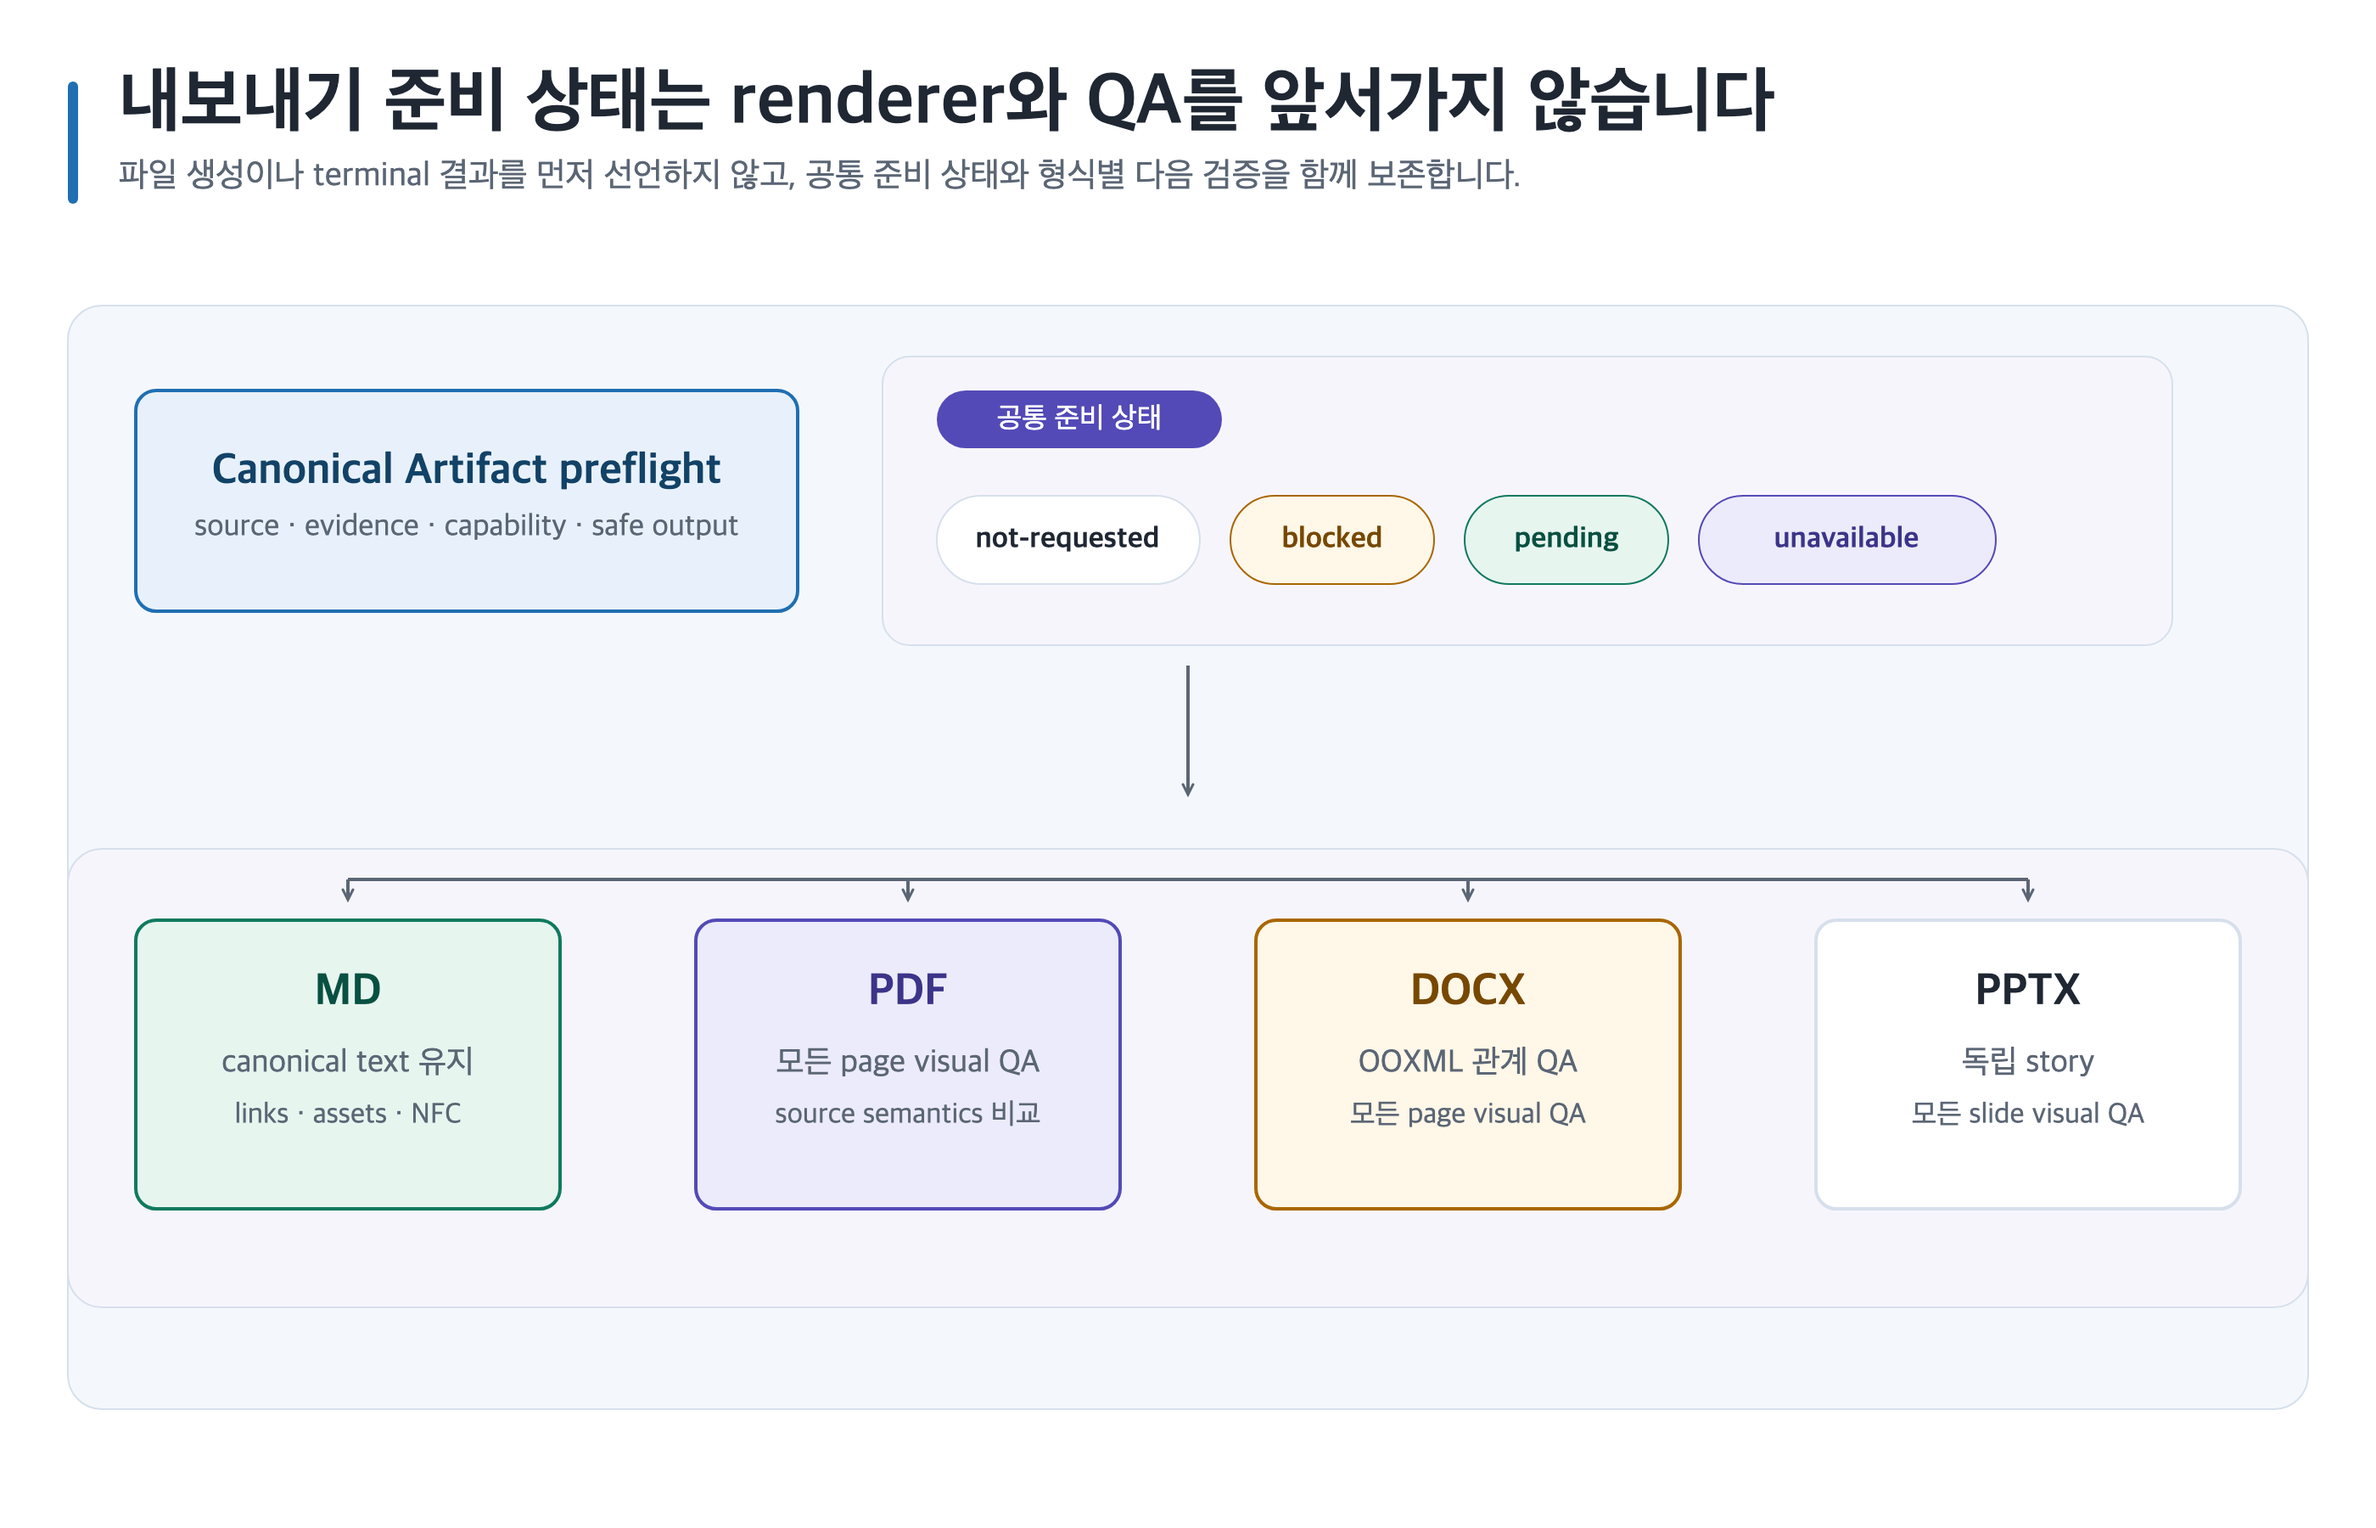
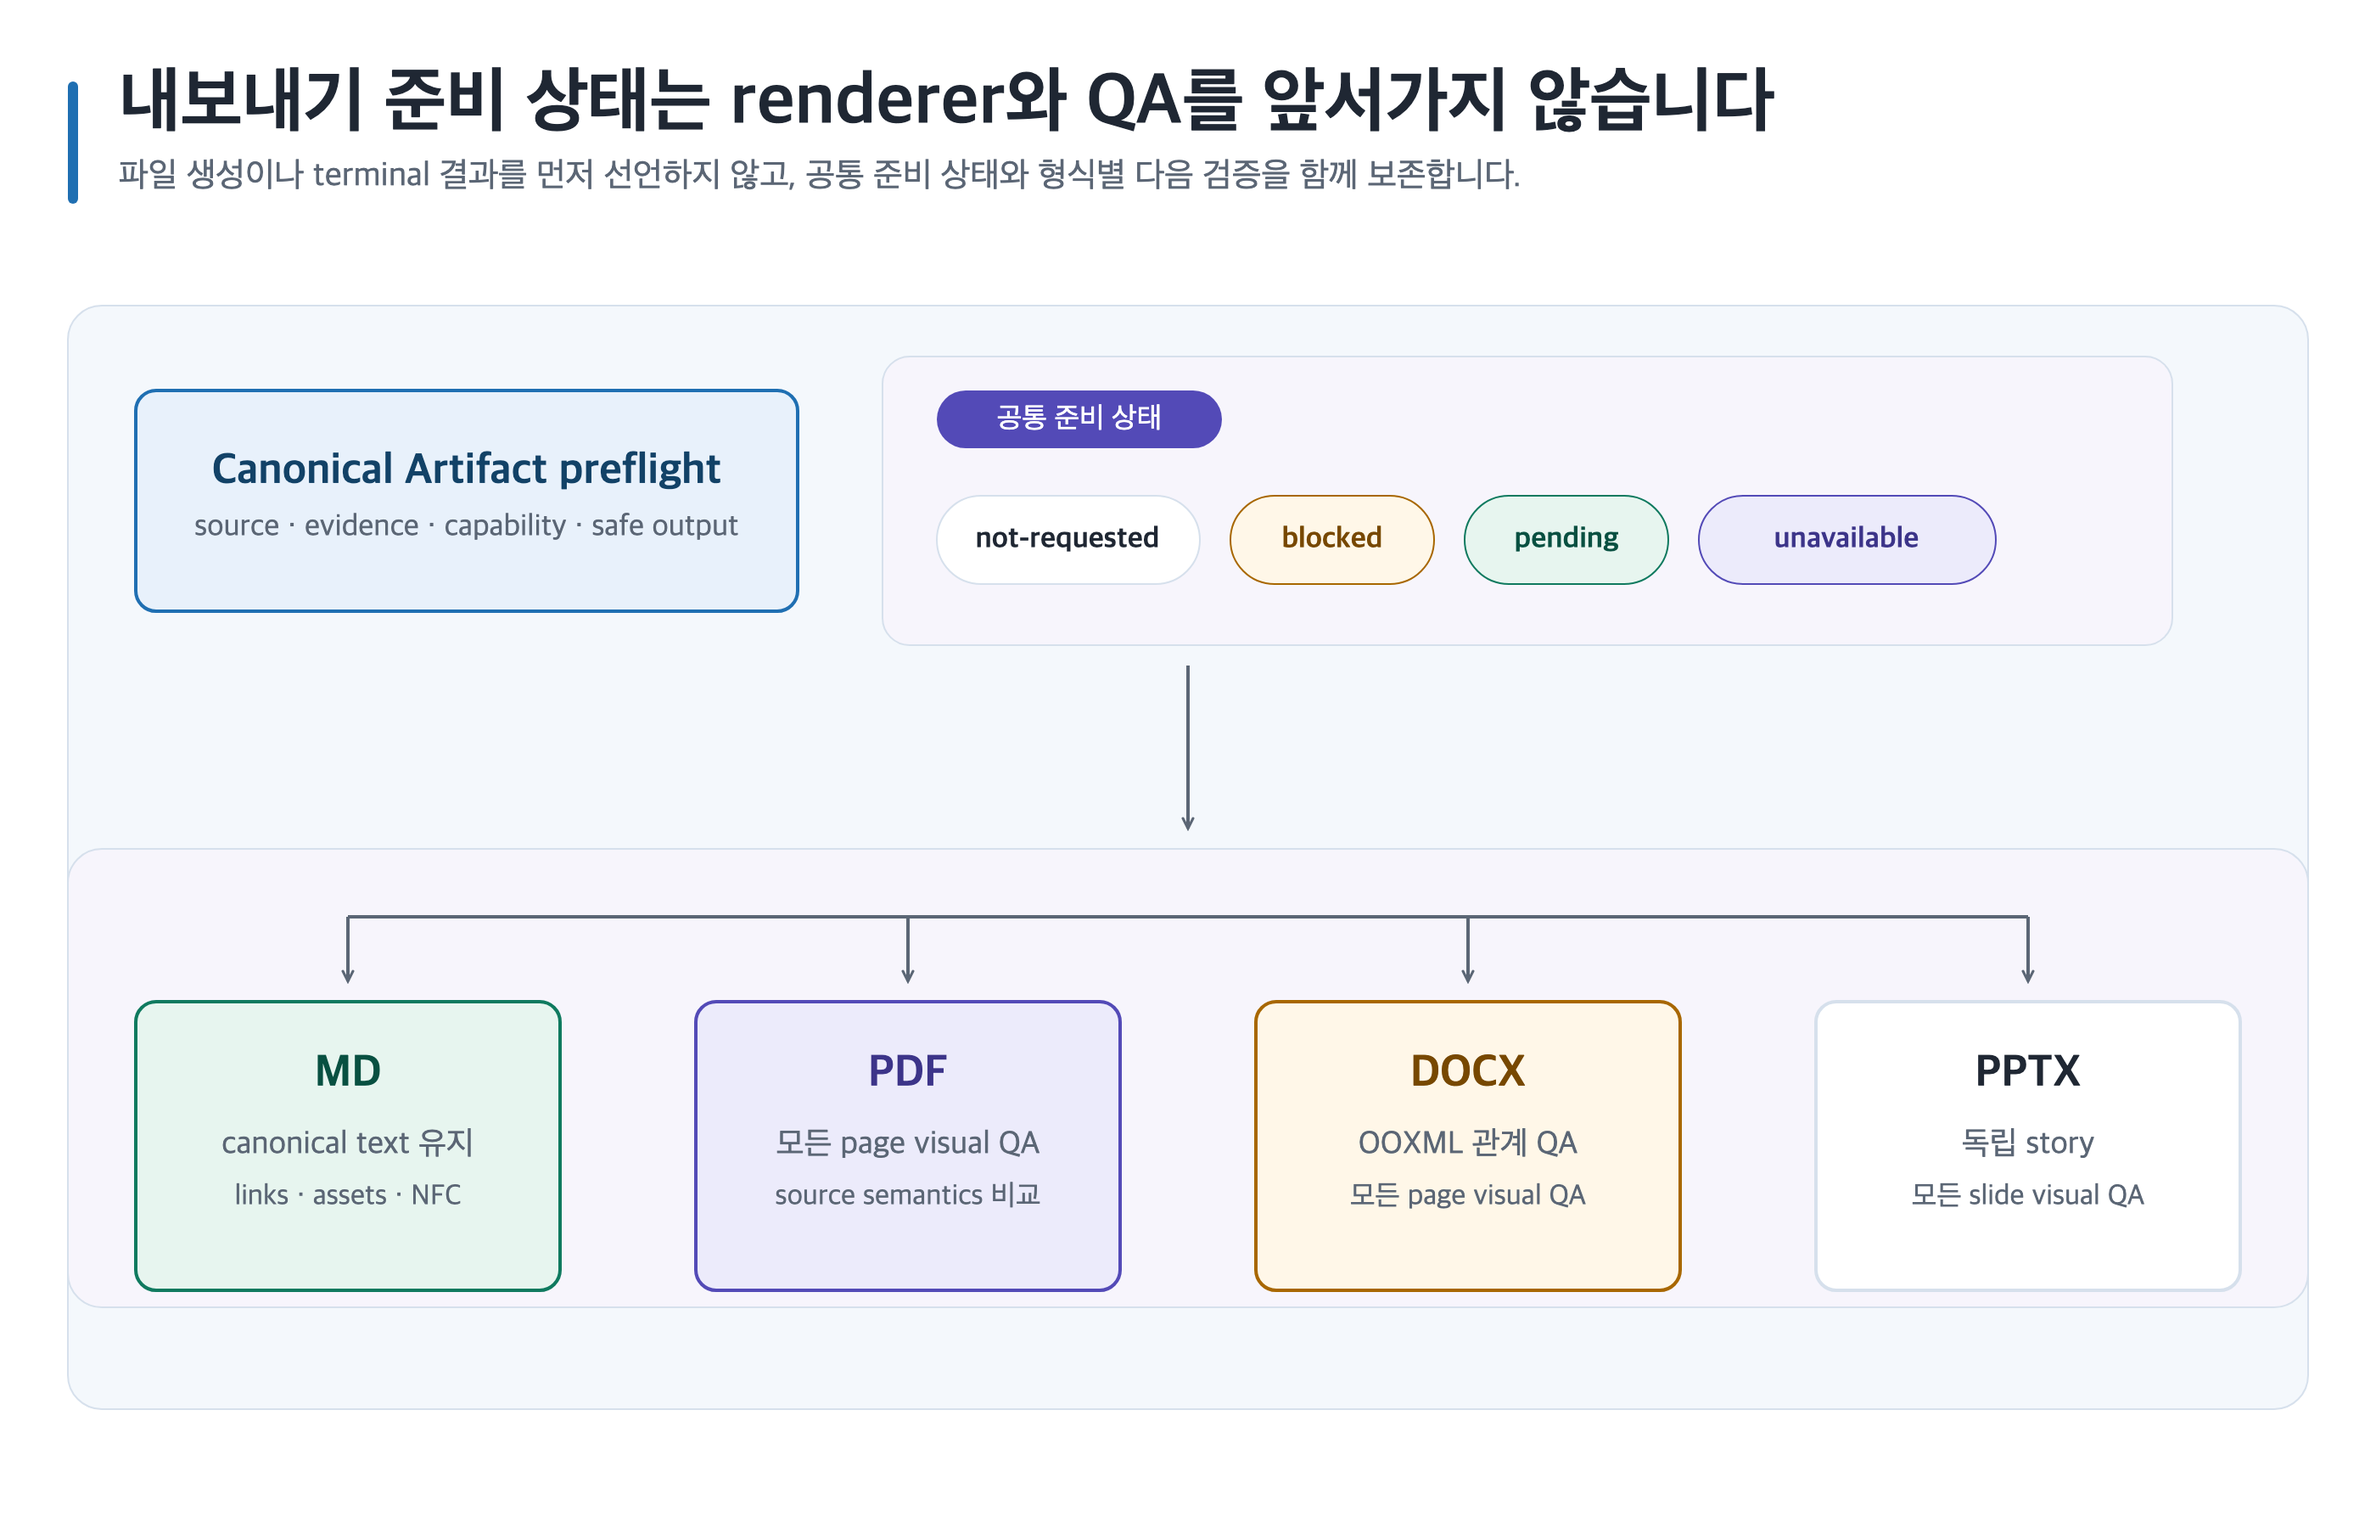
docs(diagrams): tighten shared workflow connectors

diff --git a/guides/assets/VISUAL-QA.md b/guides/assets/VISUAL-QA.md
@@ -18,8 +18,8 @@
 | `plugin-selection-flow` | 3개 카드와 결론 strip이 즉시 좌→우로 읽힘 | Korean/Latin glyph 정상, 넘침·containment 실패 없음 | 36px 이상 shaft와 open-V head, card border에서 12px gap; 목적→제품→marketplace | Studio/Career installation의 제품 선택과 `game-design-suite`를 반영 |
 | `app-cli-install-flow` | App/CLI 두 lane이 명확히 분리됨 | pill·카드·명령 label의 clipping/overflow 없음 | 각 lane이 좌→우; 36px shaft와 head, 12px gap | 두 installation guide의 App 새 채팅·CLI 새 세션을 반영 |
 | `canonical-artifact-lifecycle` | 작성→검토→사람 결정과 하단 결과가 한 화면에 보임 | gate pill, 상태 문구, 하단 strip containment 정상 | 좌→우 승인 흐름 뒤 하향 arrow; shaft/head 접합 정상, endpoint `y=664`에서 target `y=676`까지 12px gap | Studio/Career workflow의 Canonical Artifact·전문 검토·사람 결정을 반영 |
-| `image-generation-mode-routing` | `생성 요청?` decision에서 no/default와 yes 분기가 즉시 구분됨 | 모든 mode glyph 정상, 카드·merge/footer strip overflow 없음 | no/default→`prompt-only`; yes→`select`/`required`/`all`; 네 결과가 하단 공통 경계로 merge됨 | 두 image-assets guide의 `prompt-only`, `select`, `required`, `all`, selection receipt 및 manifest 경계를 반영 |
+| `image-generation-mode-routing` | `생성 요청?` decision에서 no/default와 yes 분기가 즉시 구분됨 | 모든 mode glyph 정상, 카드·merge/footer strip overflow 없음 | yes는 bus center `x=880, y=375`로 연결되고 `select`/`required`/`all` center `x=640/880/1120`에 33px branch와 12px target gap으로 동등 분기; 네 결과가 하단 공통 경계로 merge됨 | 두 image-assets guide의 `prompt-only`, `select`, `required`, `all`, selection receipt 및 manifest 경계를 반영 |
 | `image-asset-lifecycle` | draft→review→approved→후속 review가 명확함 | reviewer pill·status·하단 strip 모두 containment 정상 | 좌→우 및 하향 단계; shaft/head 정상, endpoint `y=648`에서 target `y=660`까지 12px gap | 두 image-assets guide의 `concept-draft`, `document-approved`, `production-candidate` 및 named human review를 반영 |
-| `document-export-flow` | preflight, 공통 상태 rail, MD/PDF/DOCX/PPTX 형식별 검증이 즉시 구분됨 | status pill·형식 label 모두 clipping/overflow 없음 | preflight 하향 arrow는 shaft+head; format bus는 4개 동등 형식으로 분기 | 두 exports guide의 모든 공통 상태 `not-requested`/`blocked`/`pending`/`unavailable`과 MD canonical text, PDF page QA, DOCX OOXML QA, PPTX story/slide QA를 반영 |
+| `document-export-flow` | preflight, 공통 상태 rail, MD/PDF/DOCX/PPTX 형식별 검증이 즉시 구분됨 | status pill·형식 label 모두 clipping/overflow 없음 | 공통 상태 arrow tip `y=488`→panel top `y=500`는 12px gap; panel bus `y=540`에서 네 card top `y=590`까지 endpoint `y=578`의 38px branch와 12px target gap으로 연속 분배 | 두 exports guide의 모든 공통 상태 `not-requested`/`blocked`/`pending`/`unavailable`과 MD canonical text, PDF page QA, DOCX OOXML QA, PPTX story/slide QA를 반영 |
 
-초기 lint 경고 하나(`plugin-selection-flow`의 `공통 marketplace 설치` text overflow 추정)는 label을 `marketplace 설치`로 줄인 뒤 재-lint하여 경고 0건으로 해소했습니다. Fix round 1에서는 전체 SVG를 다시 lint/render하고 모든 PNG를 두 단계로 재검사했습니다.
+초기 lint 경고 하나(`plugin-selection-flow`의 `공통 marketplace 설치` text overflow 추정)는 label을 `marketplace 설치`로 줄인 뒤 재-lint하여 경고 0건으로 해소했습니다. Fix round 1에서는 전체 SVG를 다시 lint/render하고 모든 PNG를 두 단계로 재검사했습니다. Fix round 2에서는 영향을 받은 두 PNG를 canonical Chrome으로 재렌더하고 high/original 두 단계에서 bus·branch·target gap과 canvas containment를 재확인했습니다.
